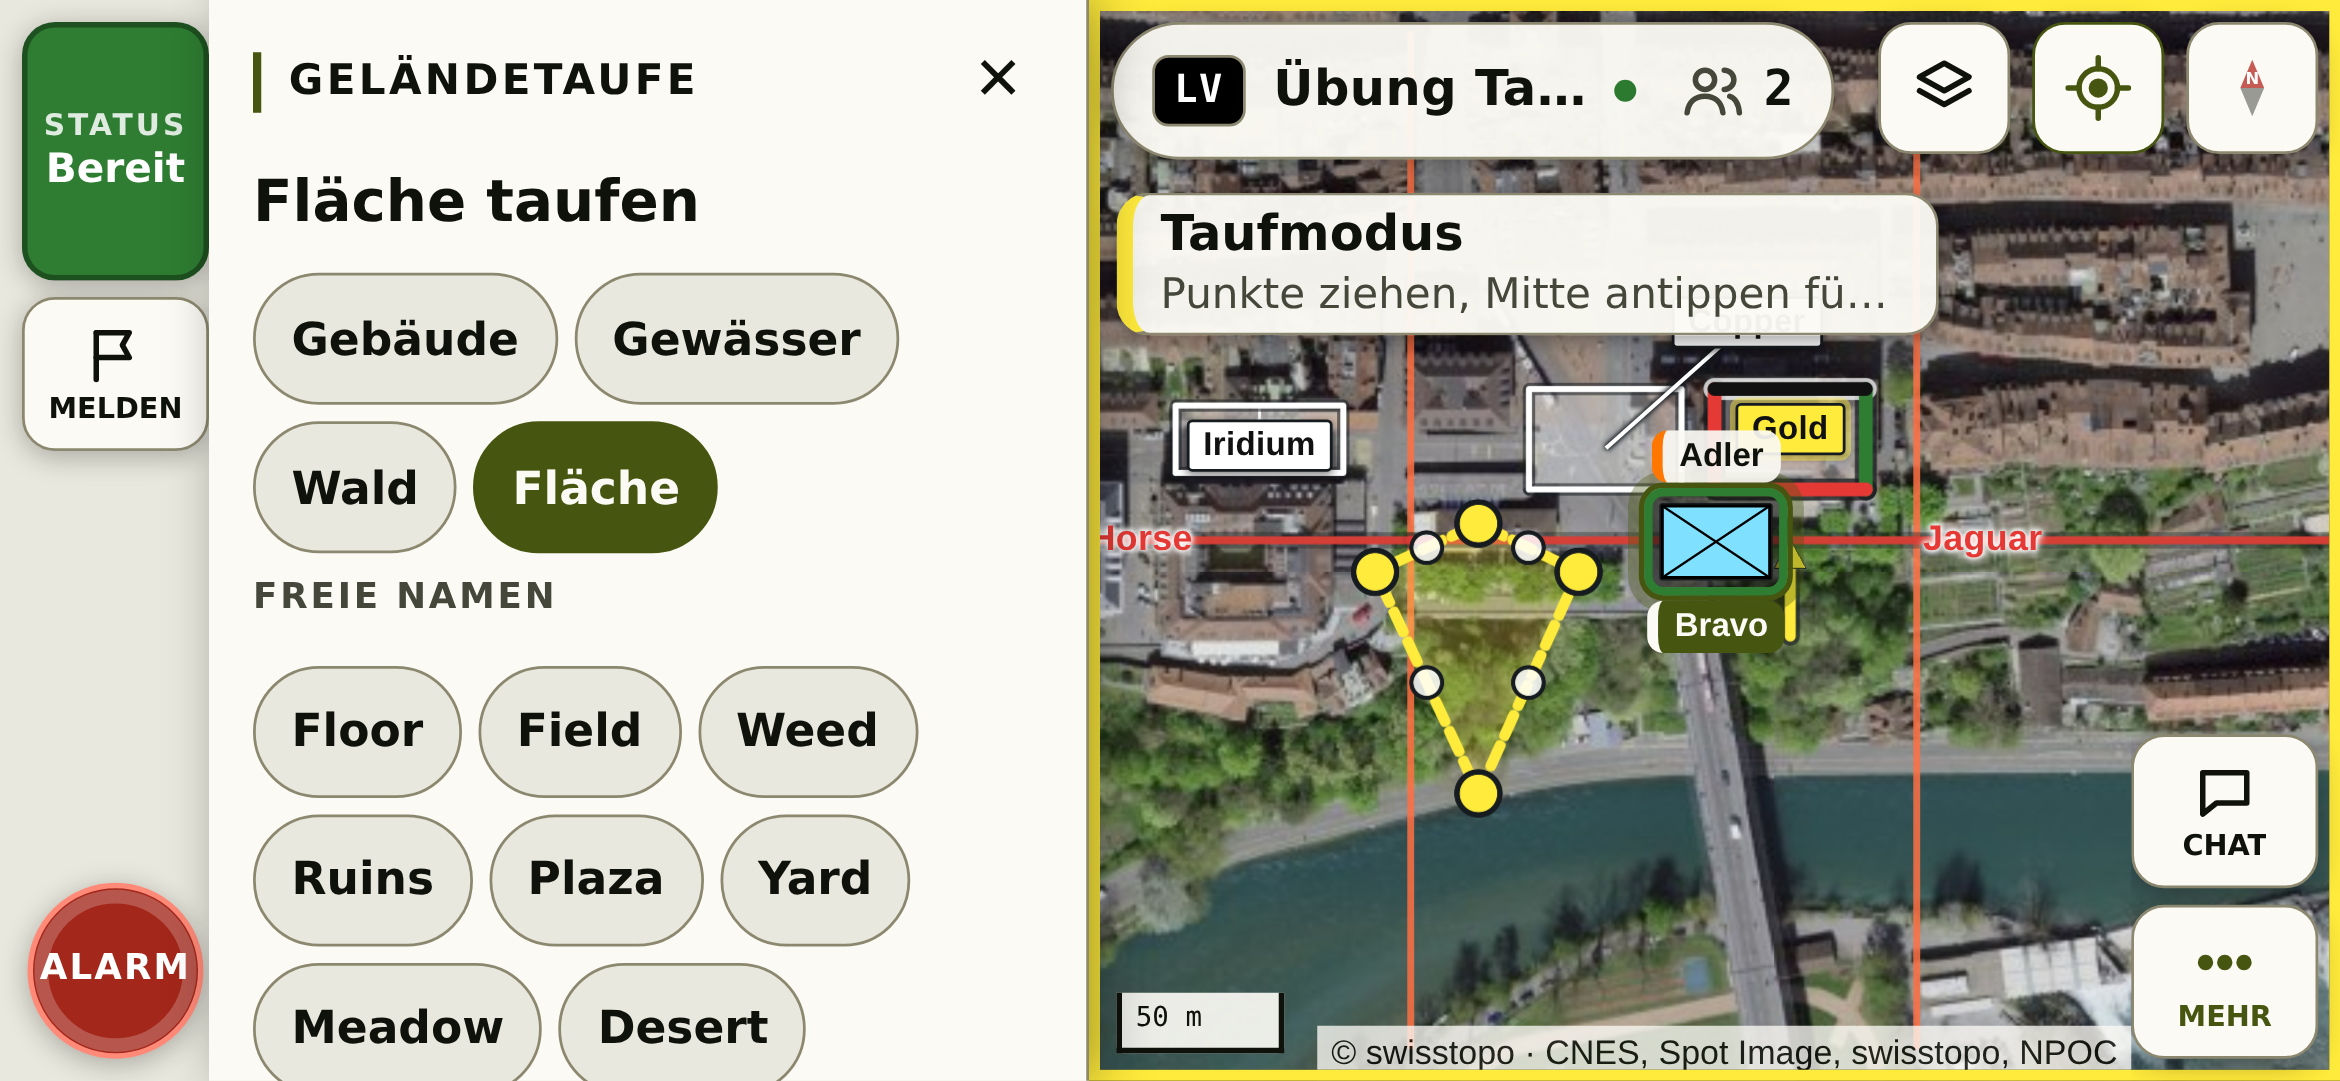
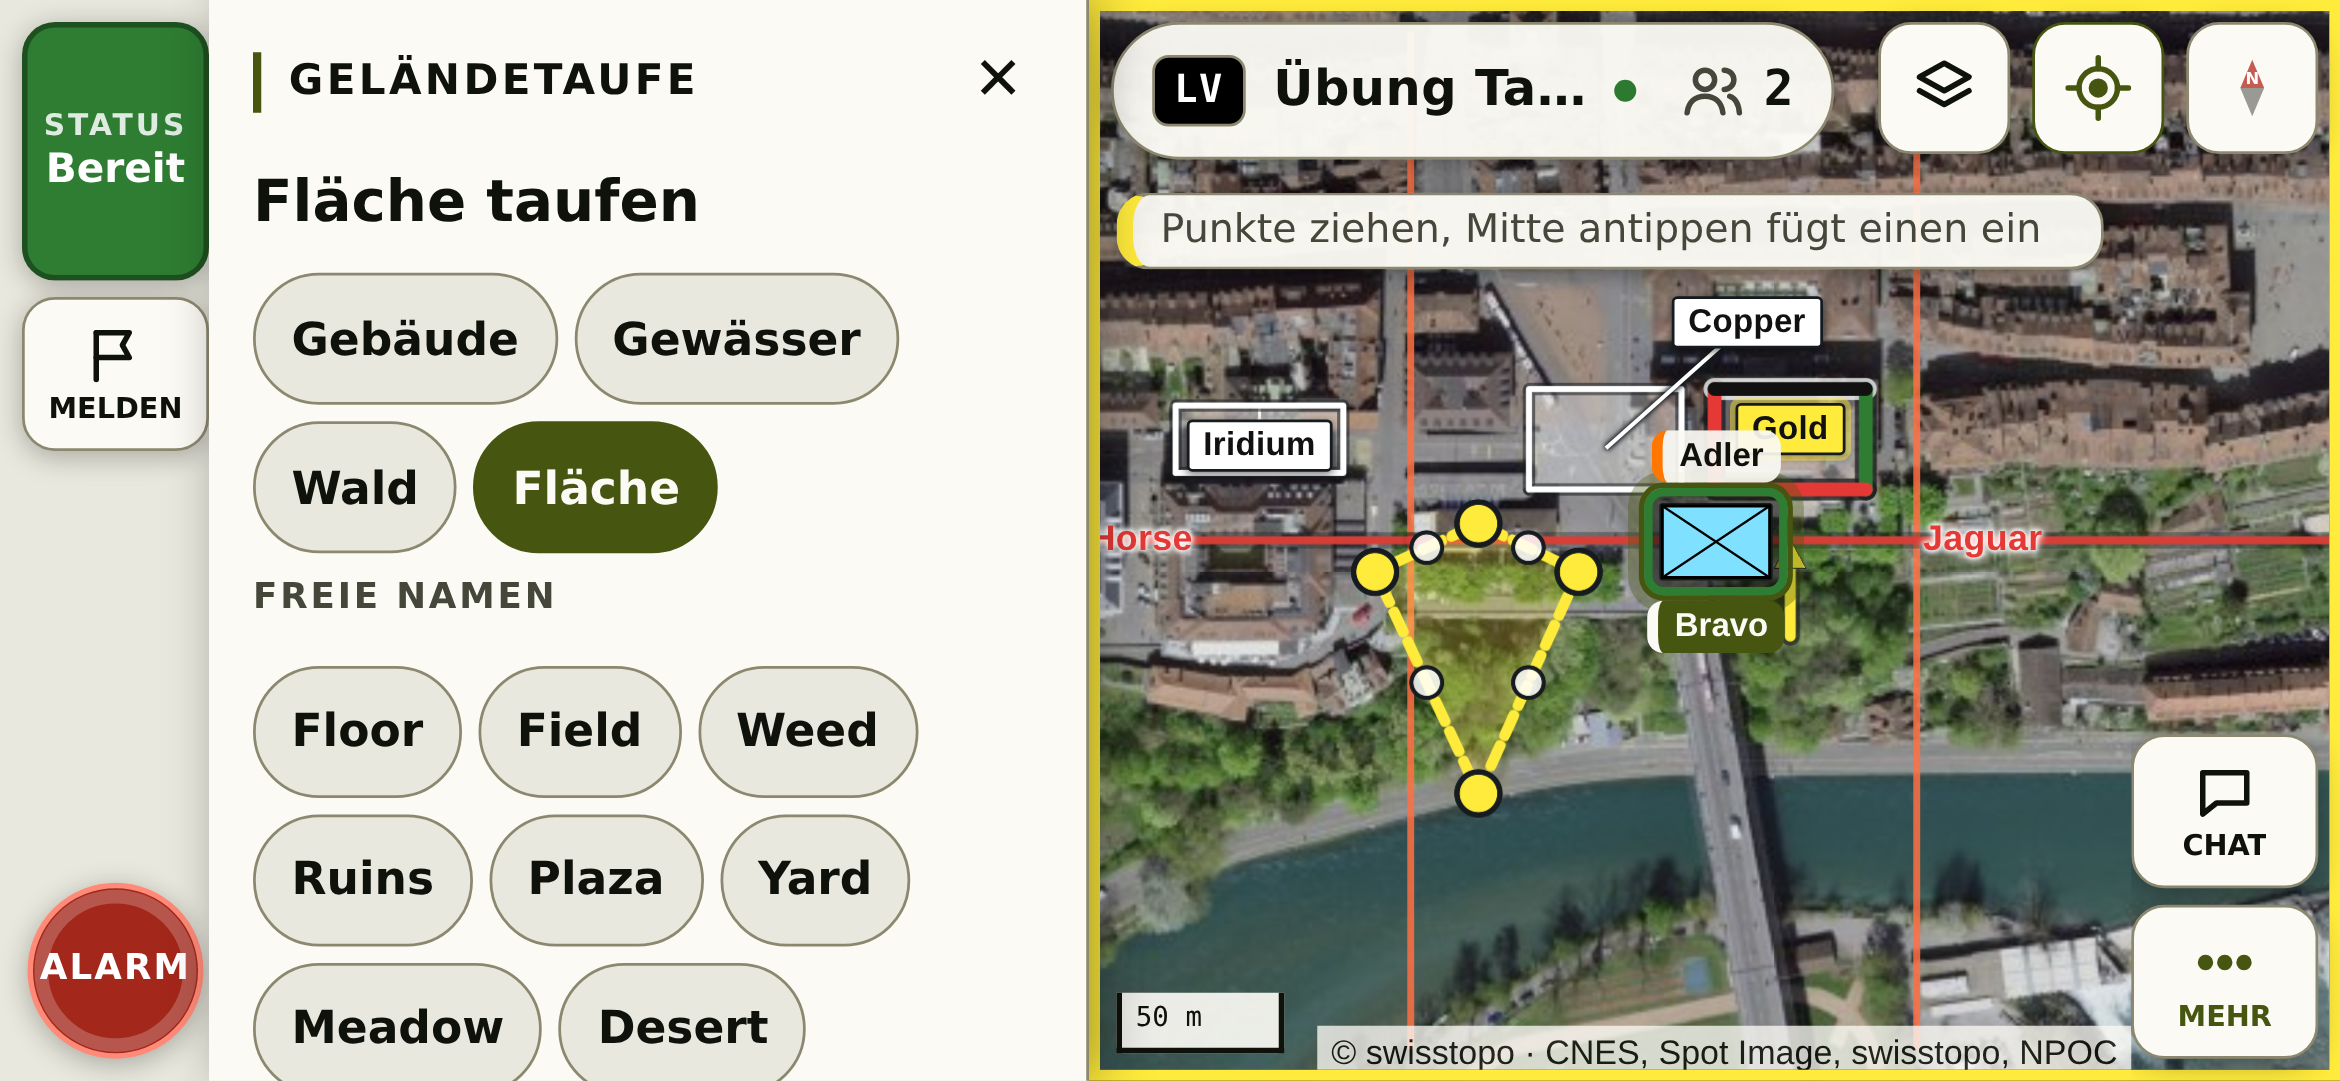
fix: Taufmodus-Leiste quer lesbar, Knöpfe ganz sichtbar
Claude-Session: https://claude.ai/code/session_01Fo5QxxrixuCWEFZHSUx93F

Changed region(s): [[0.4679, 0.1832, 0.9047, 0.3358]]

diff --git a/e2e/quer-layout.e2e.ts b/e2e/quer-layout.e2e.ts
@@ -122,7 +122,7 @@ function messe(): Befund {
     for (const b of knoepfe.slice(i + 1)) {
       if (a.el.contains(b.el) || b.el.contains(a.el)) continue;
       const s = schnitt(a.sicht, b.sicht);
-      if (s.r - s.l > 1 && s.b - s.t > 1) fehler.push(`«${a.n}» überlappt «${b.n}»`);
+      if (s.r - s.l > 1 && s.b - s.t > 1) fehler.push(`«${a.n}» überlappt «${b.n}» (${[a.sicht, b.sicht].map((q) => [q.l, q.t, q.r, q.b].map(Math.round).join(",")).join(" / ")})`);
     }
   // freie Karte: Raster von Stichproben, Treffer = Karte (Zeichenfläche oder Symbole darauf)
   let frei = 0;
@@ -226,5 +226,53 @@ test('AN: Wiedergabe offen mit Ereignisliste @layout', async () => {
     const pause = wg.getByRole('button', { name: 'Pause' });
     if (await pause.isVisible()) await pause.click(); // am Ende hält die Wiedergabe von selbst
     await pruefe(a, 'AN Wiedergabe Mitlauf', true);
+  }
+});
+
+/** Taufmodus-Leiste: Hinweis nie abgeschnitten (kein Ellipsis/Überlauf), Leiste im Bild und höchstens ein Viertel hoch. */
+async function pruefeTaufleiste(a: Ansicht, zustand: string) {
+  const wo = `${a.name} Taufmodus ${zustand}`;
+  await a.p.waitForTimeout(300);
+  const m = await a.p.evaluate(() => {
+    const leiste = document.querySelector('.tf-modus')!.getBoundingClientRect();
+    const abgeschnitten = [...document.querySelectorAll('.tf-modus .text > *')]
+      .filter((e) => e.checkVisibility())
+      .filter((e) => e.scrollWidth > e.clientWidth + 1 || e.scrollHeight > e.clientHeight + 1 || getComputedStyle(e).textOverflow === 'ellipsis')
+      .map((e) => e.textContent);
+    return { abgeschnitten, l: leiste.left, r: leiste.right, t: leiste.top, b: leiste.bottom, h: leiste.height, vw: innerWidth, vh: innerHeight };
+  });
+  expect(m.abgeschnitten, `${wo}: Text abgeschnitten`).toEqual([]);
+  expect(m.l, wo).toBeGreaterThanOrEqual(0);
+  expect(m.r, wo).toBeLessThanOrEqual(m.vw);
+  expect(m.b, wo).toBeLessThanOrEqual(m.vh);
+  expect(m.h, `${wo}: Leiste zu hoch`).toBeLessThanOrEqual(m.vh * 0.3);
+  const b = await a.p.evaluate(messe);
+  expect(b.fehler, wo).toEqual([]);
+}
+
+test('Taufmodus: Leiste lesbar, Knöpfe ganz sichtbar @layout', async () => {
+  await phase('lv');
+  for (const a of ansichten) {
+    const p = a.p;
+    if (a.bed === 'daumen') {
+      await p.getByRole('button', { name: 'Mehr', exact: true }).click();
+      await p.getByRole('menuitem', { name: 'Geländetaufe' }).click();
+    } else await p.getByRole('button', { name: 'Geländetaufe', exact: true }).click();
+    await p.getByRole('button', { name: 'Taufmodus starten', exact: true }).click();
+    await pruefeTaufleiste(a, 'Start');
+    await p.getByRole('button', { name: 'Fläche zeichnen', exact: true }).click();
+    await pruefeTaufleiste(a, 'Fläche leer');
+    const k = (await p.locator('.maplibregl-canvas').boundingBox())!;
+    for (const [i, [fx, fy]] of ([[0.4, 0.55], [0.5, 0.7], [0.6, 0.55]] as const).entries()) {
+      await p.mouse.click(k.x + k.width * fx, k.y + k.height * fy);
+      await p.waitForTimeout(500);
+      if (i < 2) await pruefeTaufleiste(a, `Fläche ${i + 1} Punkte`);
+    }
+    await expect(p.getByRole('button', { name: 'Abschliessen', exact: true })).toBeEnabled();
+    await pruefeTaufleiste(a, 'Fläche 3 Punkte');
+    for (let n = 0; n < 3; n++) await p.getByRole('button', { name: 'Zurück', exact: true }).click();
+    await p.getByRole('button', { name: 'Abbrechen', exact: true }).click();
+    await p.getByRole('button', { name: 'Fertig', exact: true }).click();
+    await expect(p.locator('.tf-modus')).toHaveCount(0);
   }
 });

diff --git a/client/src/features/taufe/Modus.svelte b/client/src/features/taufe/Modus.svelte
@@ -36,7 +36,7 @@
   <div class="tf-rahmen" aria-hidden="true"></div>
   <section class="tf-modus" aria-label="Taufmodus">
     <div class="text">
-      <strong>{#if bearbeitet}Punkte «{bearbeitet.name}»{:else if tz.zeichnen && !tz.zeichnen.fertig}Fläche zeichnen{:else}Taufmodus{#if verlaengert} · {FAMILIE_LABEL[verlaengert.familie]} verlängern{/if}{/if}</strong>
+      <strong>{#if bearbeitet}Punkte «{bearbeitet.name}»{:else if verlaengert}Taufmodus · {FAMILIE_LABEL[verlaengert.familie]} verlängern{:else}<span class="kontext">{tz.zeichnen && !tz.zeichnen.fertig ? 'Fläche zeichnen' : 'Taufmodus'}</span>{/if}</strong>
       <span>{hinweis}</span>
     </div>
     <div class="knoepfe">
@@ -106,20 +106,29 @@
     min-height: 40px;
     padding: 0 12px;
   }
-  /* Querformat Handy: eine Zeile, damit die Karte frei bleibt */
+  /* Querformat Handy: kompakt, der Hinweis bricht um (nie abgeschnitten), der Titel entfällt (Rahmen + Hinweis zeigen den Modus),
+     die Knöpfe rutschen bei zu wenig Breite in eine eigene Zeile */
   @media (max-height: 500px) {
     .tf-modus {
-      flex-wrap: nowrap;
+      max-width: 460px;
+      right: calc(var(--rechts, 0px) + 10px);
       padding: 4px 6px 4px 10px;
+      gap: 2px 10px;
     }
-    .text strong,
+    .text {
+      flex: 1 1 8rem;
+    }
+    .text :global(.kontext) {
+      display: none;
+    }
     .text span {
-      overflow: hidden;
-      text-overflow: ellipsis;
-      white-space: nowrap;
+      font-size: 0.8rem;
+    }
+    .knoepfe {
+      margin-left: auto;
     }
     .knoepfe button {
-      min-height: 36px;
+      min-height: 44px;
       padding: 0 10px;
     }
   }

diff --git a/e2e/taufe.e2e.ts b/e2e/taufe.e2e.ts
@@ -253,11 +253,11 @@ test('quer: mehrteiliges Gebäude – Teile antippen sammelt (dazu/weg), getauft
     await expect(wahl).toBeVisible({ timeout: 1500 });
   }).toPass({ timeout: 20_000 });
   await expect(wahl).toContainText('1 Teil');
-  await tippe(p, -120, 30);
+  await tippe(p, -120, 22);
   await expect(wahl).toContainText('2 Teile');
-  await tippe(p, -120, 30); // nochmals: weg
+  await tippe(p, -120, 22); // nochmals: weg
   await expect(wahl).toContainText('1 Teil');
-  await tippe(p, -120, 30);
+  await tippe(p, -120, 22);
   await expect(wahl).toContainText('2 Teile');
   await expect(p.locator('.toasts .toast')).toHaveCount(0, { timeout: 10_000 }); // Hinweis eines zu frühen Tipps
   await querBild(p, 'teile');
